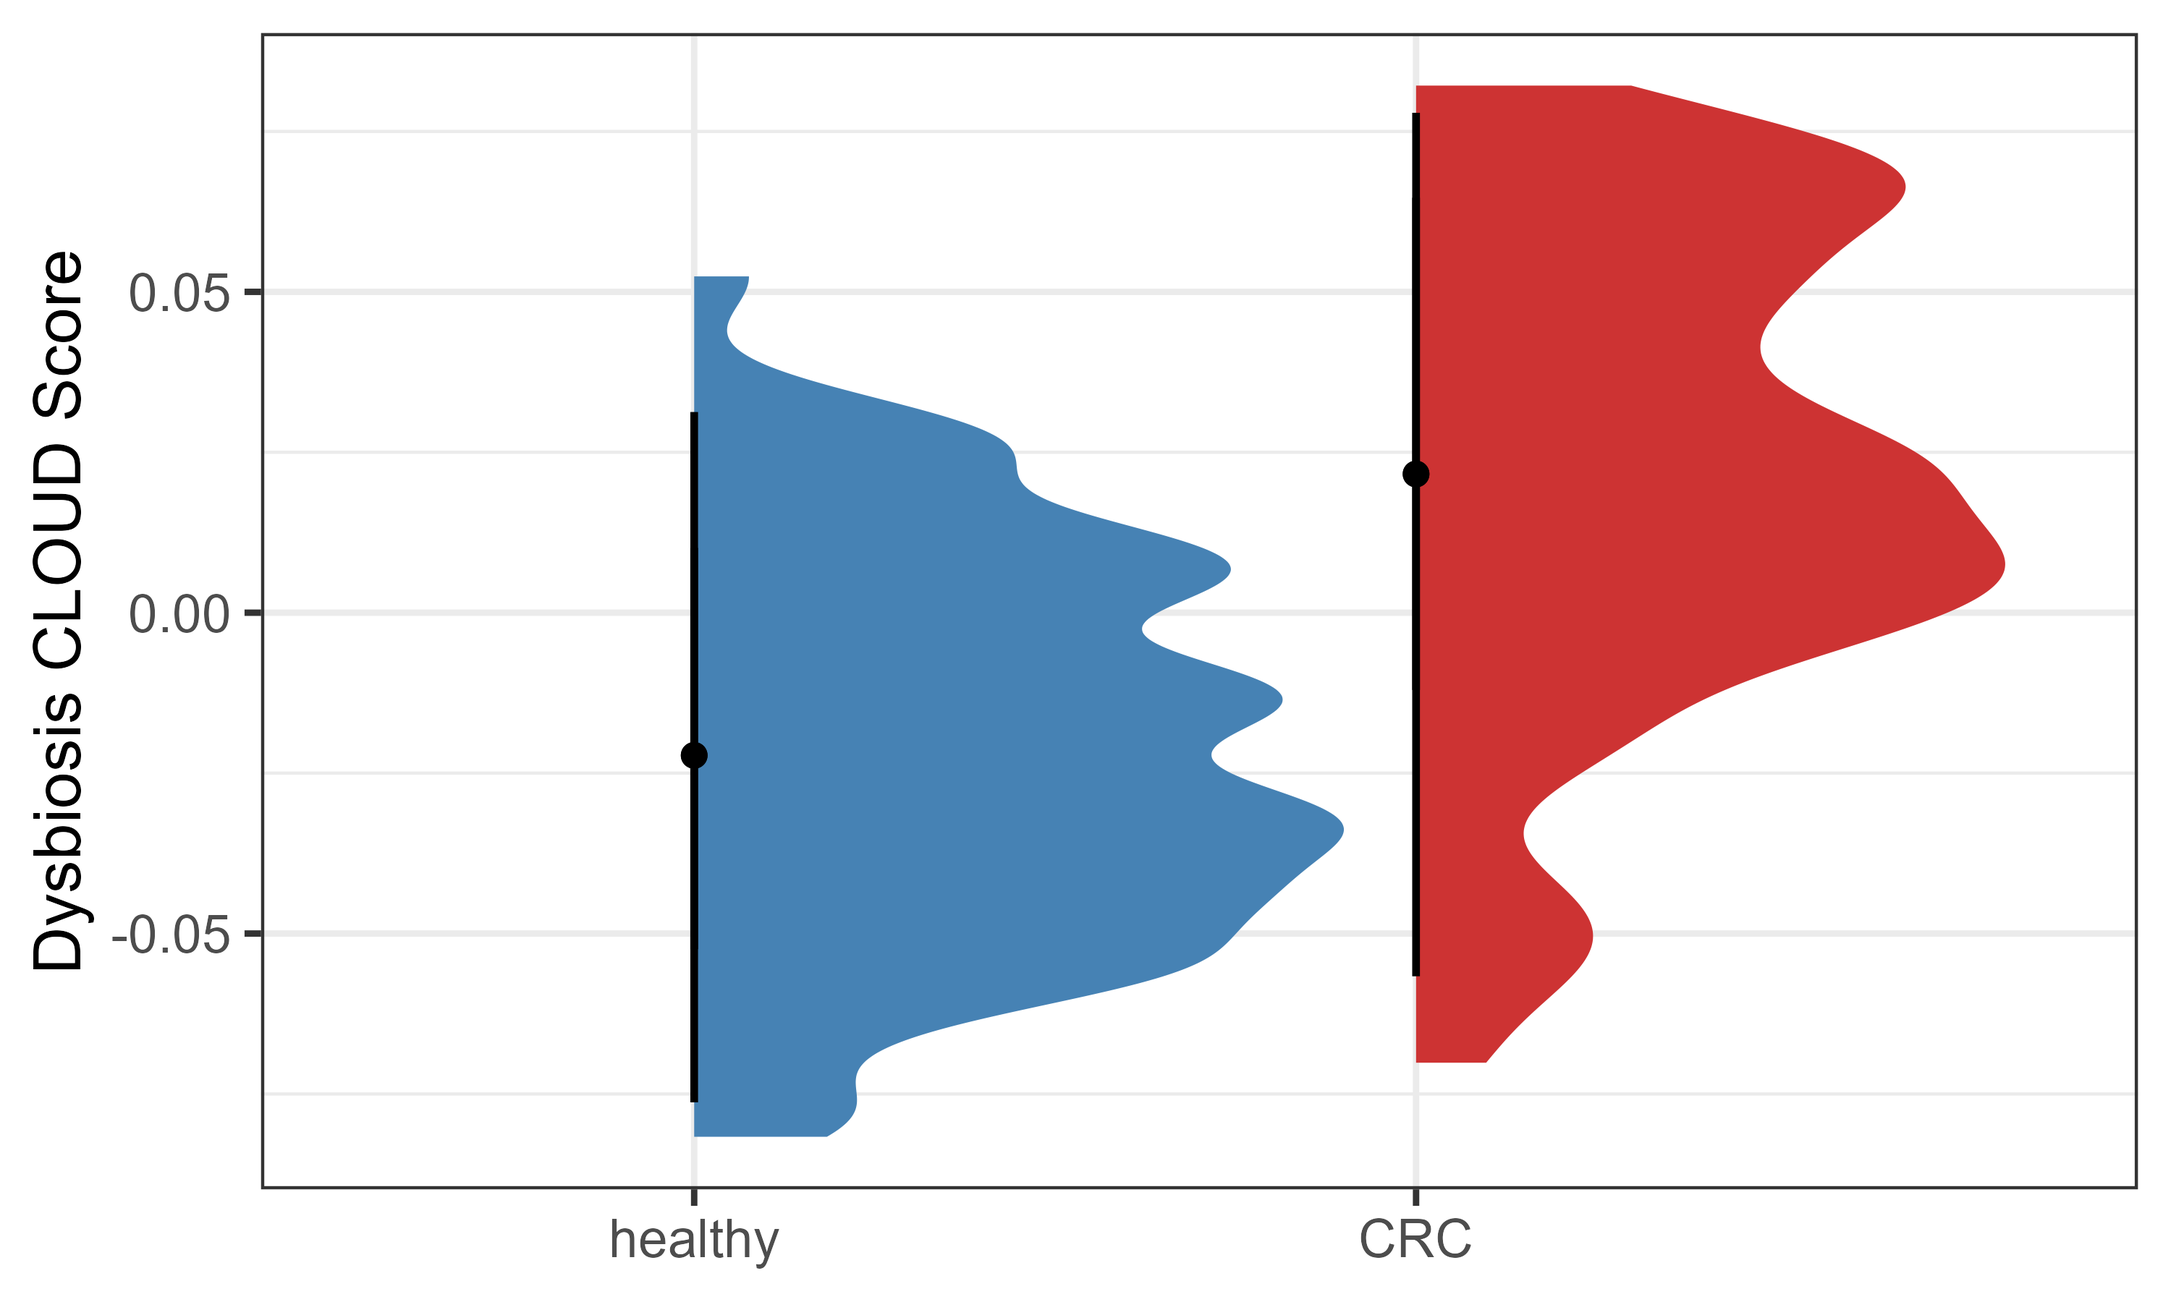
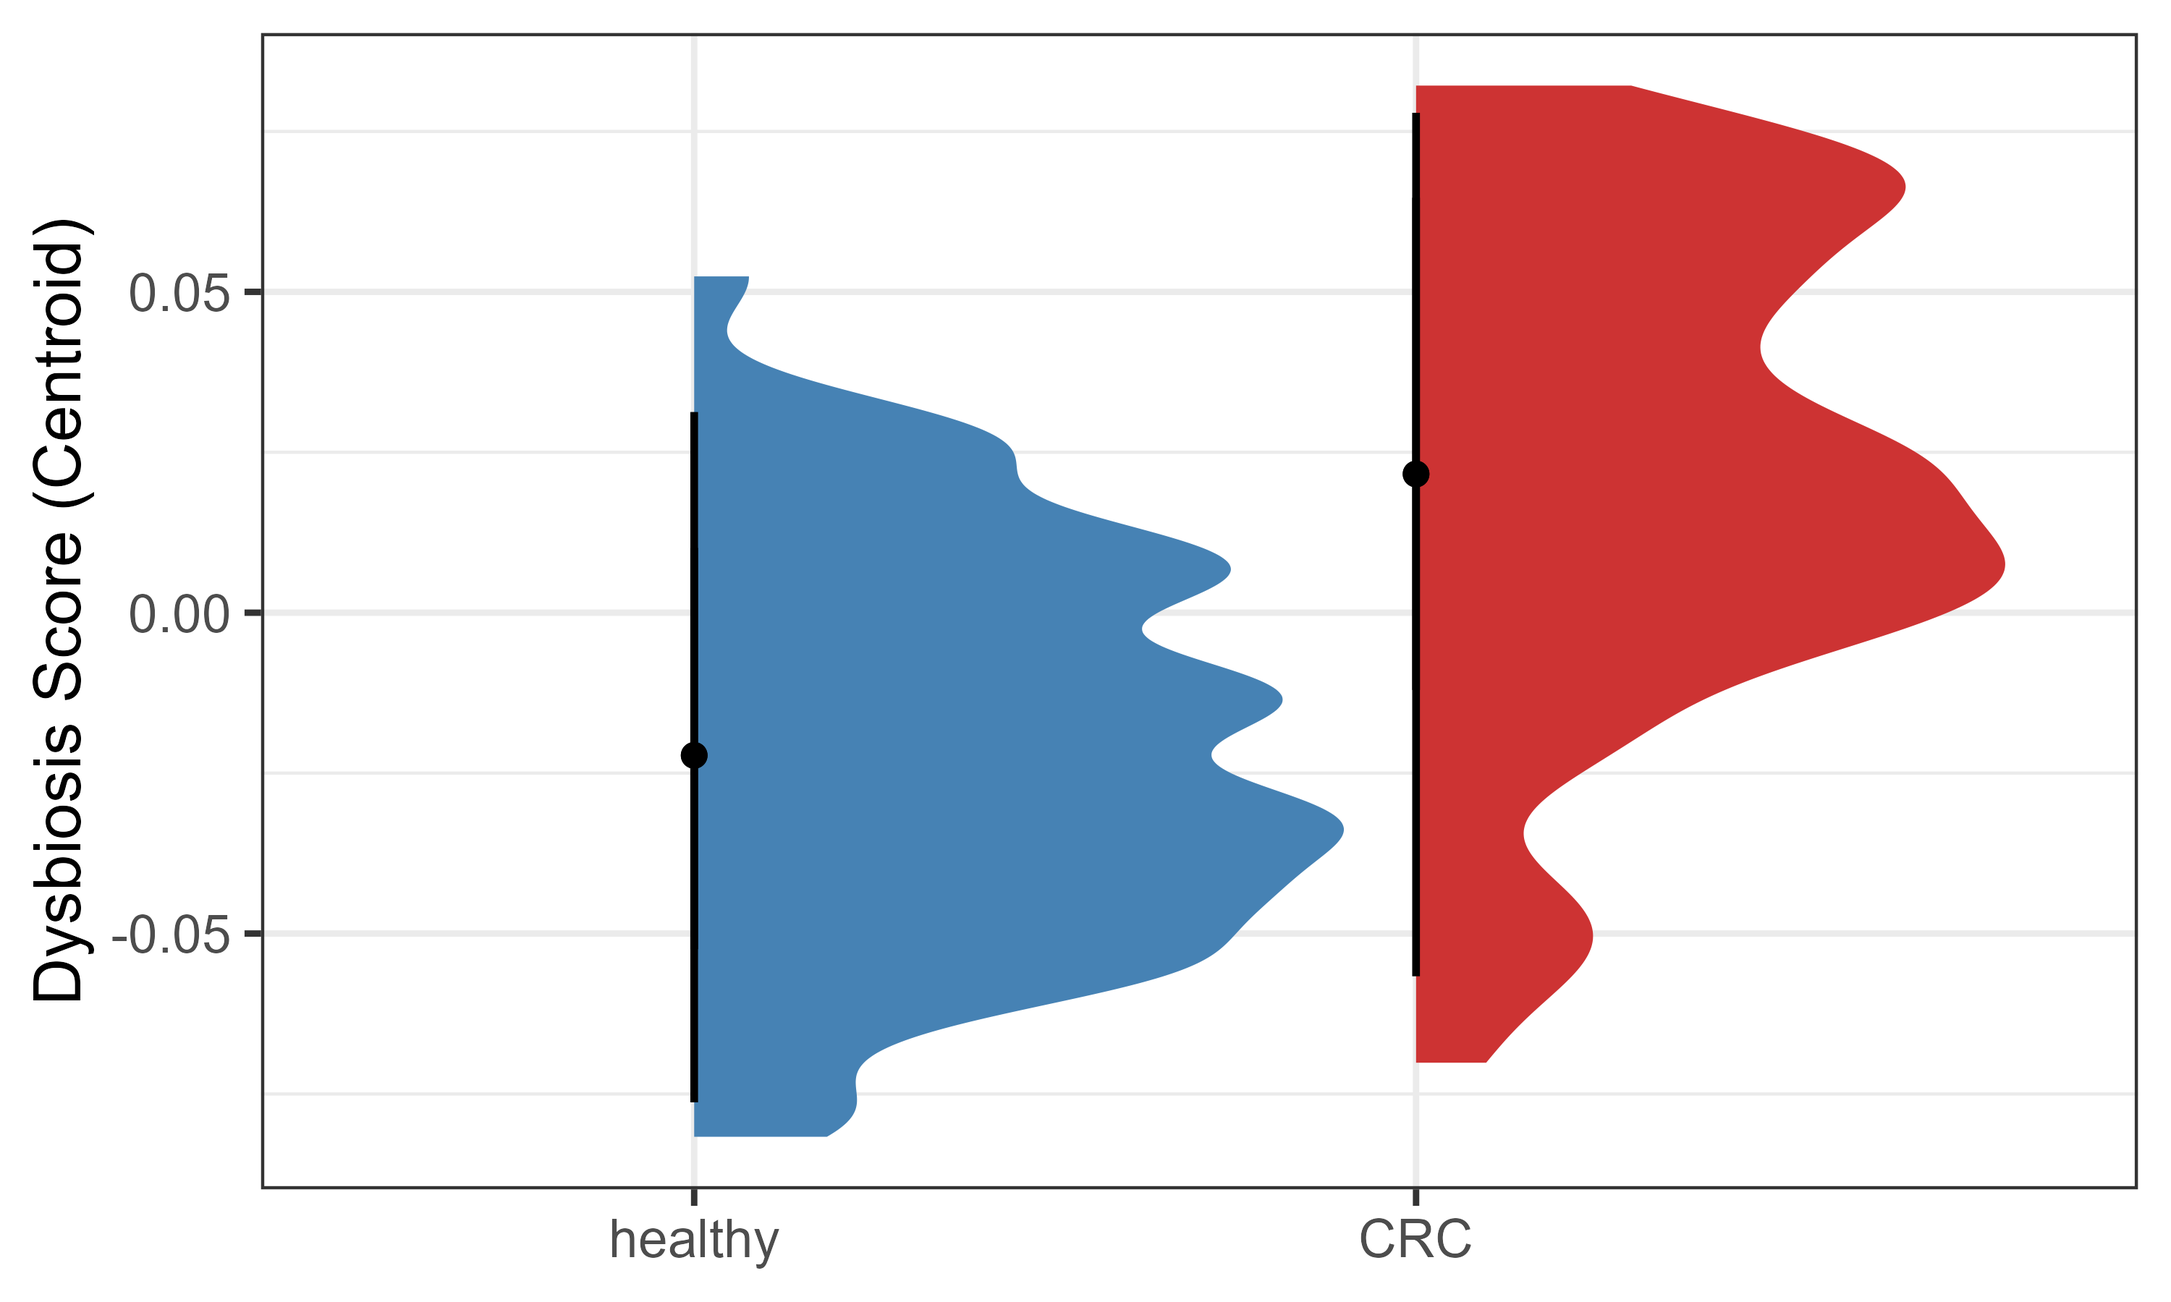
up

Changed region(s): [[0.0, 0.1867, 0.062, 0.7778]]

diff --git a/docs/articles/Introduction.html b/docs/articles/Introduction.html
@@ -243,7 +243,7 @@ score.</p>
 <div class="sourceCode" id="cb10"><pre class="downlit sourceCode r">
 <code class="sourceCode R"><span><span class="co"># order the data </span></span>
 <span><span class="va">dysbiosis_2</span><span class="op">$</span><span class="va">disease</span> <span class="op">&lt;-</span> <span class="fu"><a href="https://rdrr.io/r/base/factor.html" class="external-link">factor</a></span><span class="op">(</span><span class="va">dysbiosis_2</span><span class="op">$</span><span class="va">disease</span>, </span>
-<span>                                levels <span class="op">=</span> <span class="fu"><a href="https://rdrr.io/r/base/c.html" class="external-link">c</a></span><span class="op">(</span><span class="st">"healthy"</span>, <span class="st">"CRC"</span><span class="op">)</span><span class="op">)</span></span>
+<span>                              levels <span class="op">=</span> <span class="fu"><a href="https://rdrr.io/r/base/c.html" class="external-link">c</a></span><span class="op">(</span><span class="st">"healthy"</span>, <span class="st">"CRC"</span><span class="op">)</span><span class="op">)</span></span>
 <span></span>
 <span><span class="va">roc_2</span> <span class="op">&lt;-</span> <span class="fu">pROC</span><span class="fu">::</span><span class="fu"><a href="https://rdrr.io/pkg/pROC/man/roc.html" class="external-link">roc</a></span><span class="op">(</span><span class="fu"><a href="https://rdrr.io/r/base/factor.html" class="external-link">as.factor</a></span><span class="op">(</span><span class="va">dysbiosis_2</span><span class="op">$</span><span class="va">disease</span><span class="op">)</span>,</span>
 <span>                   <span class="va">dysbiosis_2</span><span class="op">$</span><span class="va">CentroidDist_score</span> ,</span>
@@ -262,7 +262,7 @@ score.</p>
 <span>                    yvar<span class="op">=</span><span class="st">"CentroidDist_score"</span>,</span>
 <span>                    colors<span class="op">=</span><span class="fu"><a href="https://rdrr.io/r/base/c.html" class="external-link">c</a></span><span class="op">(</span>CRC<span class="op">=</span><span class="st">"brown3"</span>, healthy<span class="op">=</span><span class="st">"steelblue"</span><span class="op">)</span>,</span>
 <span>                    show_points <span class="op">=</span> <span class="cn">FALSE</span><span class="op">)</span> <span class="op">+</span></span>
-<span>  <span class="fu"><a href="https://ggplot2.tidyverse.org/reference/labs.html" class="external-link">labs</a></span><span class="op">(</span>x<span class="op">=</span><span class="st">""</span>, y<span class="op">=</span><span class="st">"Dysbiosis CLOUD Score"</span><span class="op">)</span></span>
+<span>  <span class="fu"><a href="https://ggplot2.tidyverse.org/reference/labs.html" class="external-link">labs</a></span><span class="op">(</span>x<span class="op">=</span><span class="st">""</span>, y<span class="op">=</span><span class="st">"Dysbiosis Score (Centroid)"</span><span class="op">)</span></span>
 <span><span class="va">p3</span></span></code></pre></div>
 <p><img src="Introduction_files/figure-html/unnamed-chunk-11-1.png" width="100%" style="display: block; margin: auto;"></p>
 </div>
@@ -297,7 +297,7 @@ means for alpha and beta diversity.</p>
 <div class="sourceCode" id="cb14"><pre class="downlit sourceCode r">
 <code class="sourceCode R"><span><span class="co"># order the data </span></span>
 <span><span class="va">dysbiosis_3</span><span class="op">$</span><span class="va">disease</span> <span class="op">&lt;-</span> <span class="fu"><a href="https://rdrr.io/r/base/factor.html" class="external-link">factor</a></span><span class="op">(</span><span class="va">dysbiosis_3</span><span class="op">$</span><span class="va">disease</span>, </span>
-<span>                                levels <span class="op">=</span> <span class="fu"><a href="https://rdrr.io/r/base/c.html" class="external-link">c</a></span><span class="op">(</span><span class="st">"healthy"</span>, <span class="st">"CRC"</span><span class="op">)</span><span class="op">)</span></span>
+<span>                              levels <span class="op">=</span> <span class="fu"><a href="https://rdrr.io/r/base/c.html" class="external-link">c</a></span><span class="op">(</span><span class="st">"healthy"</span>, <span class="st">"CRC"</span><span class="op">)</span><span class="op">)</span></span>
 <span></span>
 <span><span class="va">roc_3</span> <span class="op">&lt;-</span> <span class="fu">pROC</span><span class="fu">::</span><span class="fu"><a href="https://rdrr.io/pkg/pROC/man/roc.html" class="external-link">roc</a></span><span class="op">(</span><span class="fu"><a href="https://rdrr.io/r/base/factor.html" class="external-link">as.factor</a></span><span class="op">(</span><span class="va">dysbiosis_3</span><span class="op">$</span><span class="va">disease</span><span class="op">)</span>,</span>
 <span>                   <span class="va">dysbiosis_3</span><span class="op">$</span><span class="va">ShannonJSDScore</span> ,</span>
@@ -415,6 +415,11 @@ allows for calculating this measure with some level of freedom of
 <span>  <span class="fu"><a href="https://ggplot2.tidyverse.org/reference/labs.html" class="external-link">labs</a></span><span class="op">(</span>x<span class="op">=</span><span class="st">""</span>, y<span class="op">=</span><span class="st">"OOB Dysbiosis Score"</span><span class="op">)</span></span>
 <span><span class="va">p5</span></span></code></pre></div>
 <p><img src="Introduction_files/figure-html/unnamed-chunk-19-1.png" width="100%" style="display: block; margin: auto;"></p>
+</div>
+</div>
+<div class="section level2">
+<h2 id="additional">Additional<a class="anchor" aria-label="anchor" href="#additional"></a>
+</h2>
 <p>Compare all five dysbiosis scores</p>
 <div class="sourceCode" id="cb20"><pre class="downlit sourceCode r">
 <code class="sourceCode R"><span></span>
@@ -438,7 +443,33 @@ allows for calculating this measure with some level of freedom of
 <span><span class="co">#&gt; CCMD13934959ST-21-0 -0.27130195</span></span>
 <span><span class="co">#&gt; CCMD14479708ST-21-0 -0.21081880</span></span>
 <span><span class="co">#&gt; CCMD18872694ST-21-0 -0.14659362</span></span></code></pre></div>
+<p>The different dysbiosis score can be investigated in the context of
+specific host features.</p>
 <div class="sourceCode" id="cb21"><pre class="downlit sourceCode r">
+<code class="sourceCode R"><span><span class="co"># Age</span></span>
+<span><span class="va">p1</span> <span class="op">&lt;-</span> <span class="fu"><a href="https://rdrr.io/r/base/cbind.html" class="external-link">cbind</a></span><span class="op">(</span><span class="va">all.dysbiosis</span>,</span>
+<span>      <span class="va">dysbiosis_1</span><span class="op">[</span><span class="fu"><a href="https://rdrr.io/r/base/c.html" class="external-link">c</a></span><span class="op">(</span><span class="st">"age"</span>,<span class="st">"BMI"</span>, <span class="st">"disease"</span><span class="op">)</span><span class="op">]</span><span class="op">)</span> <span class="op">|&gt;</span> </span>
+<span>  <span class="fu"><a href="https://ggplot2.tidyverse.org/reference/ggplot.html" class="external-link">ggplot</a></span><span class="op">(</span><span class="fu"><a href="https://ggplot2.tidyverse.org/reference/aes.html" class="external-link">aes</a></span><span class="op">(</span><span class="va">age</span>,<span class="va">CentroidDist_score</span>,color<span class="op">=</span><span class="va">disease</span><span class="op">)</span><span class="op">)</span> <span class="op">+</span></span>
+<span>  <span class="fu"><a href="https://ggplot2.tidyverse.org/reference/geom_point.html" class="external-link">geom_point</a></span><span class="op">(</span><span class="op">)</span> <span class="op">+</span></span>
+<span>  <span class="fu"><a href="https://ggplot2.tidyverse.org/reference/ggtheme.html" class="external-link">theme_bw</a></span><span class="op">(</span>base_size <span class="op">=</span> <span class="fl">12</span><span class="op">)</span> <span class="op">+</span></span>
+<span>  <span class="fu"><a href="https://ggplot2.tidyverse.org/reference/geom_smooth.html" class="external-link">geom_smooth</a></span><span class="op">(</span><span class="op">)</span> <span class="op">+</span></span>
+<span>  <span class="fu"><a href="https://ggplot2.tidyverse.org/reference/scale_manual.html" class="external-link">scale_color_manual</a></span><span class="op">(</span><span class="st">"Group"</span>, values <span class="op">=</span> <span class="fu"><a href="https://rdrr.io/r/base/c.html" class="external-link">c</a></span><span class="op">(</span>CRC<span class="op">=</span><span class="st">"brown3"</span>, healthy<span class="op">=</span><span class="st">"steelblue"</span><span class="op">)</span><span class="op">)</span><span class="op">+</span></span>
+<span>  <span class="fu"><a href="https://ggplot2.tidyverse.org/reference/labs.html" class="external-link">labs</a></span><span class="op">(</span>y<span class="op">=</span><span class="st">"Dysbiosis Score (Centroid)"</span><span class="op">)</span></span>
+<span><span class="va">p1</span></span></code></pre></div>
+<p><img src="Introduction_files/figure-html/unnamed-chunk-21-1.png" width="100%" style="display: block; margin: auto;"></p>
+<div class="sourceCode" id="cb22"><pre class="downlit sourceCode r">
+<code class="sourceCode R"><span><span class="co"># BMI  </span></span>
+<span><span class="va">p2</span> <span class="op">&lt;-</span> <span class="fu"><a href="https://rdrr.io/r/base/cbind.html" class="external-link">cbind</a></span><span class="op">(</span><span class="va">all.dysbiosis</span>,</span>
+<span>      <span class="va">dysbiosis_1</span><span class="op">[</span><span class="fu"><a href="https://rdrr.io/r/base/c.html" class="external-link">c</a></span><span class="op">(</span><span class="st">"age"</span>,<span class="st">"BMI"</span>, <span class="st">"disease"</span><span class="op">)</span><span class="op">]</span><span class="op">)</span> <span class="op">|&gt;</span> </span>
+<span>  <span class="fu"><a href="https://ggplot2.tidyverse.org/reference/ggplot.html" class="external-link">ggplot</a></span><span class="op">(</span><span class="fu"><a href="https://ggplot2.tidyverse.org/reference/aes.html" class="external-link">aes</a></span><span class="op">(</span><span class="va">BMI</span>,<span class="va">CentroidDist_score</span>,color<span class="op">=</span><span class="va">disease</span><span class="op">)</span><span class="op">)</span> <span class="op">+</span></span>
+<span>  <span class="fu"><a href="https://ggplot2.tidyverse.org/reference/geom_point.html" class="external-link">geom_point</a></span><span class="op">(</span><span class="op">)</span> <span class="op">+</span></span>
+<span>  <span class="fu"><a href="https://ggplot2.tidyverse.org/reference/ggtheme.html" class="external-link">theme_bw</a></span><span class="op">(</span>base_size <span class="op">=</span> <span class="fl">12</span><span class="op">)</span> <span class="op">+</span></span>
+<span>  <span class="fu"><a href="https://ggplot2.tidyverse.org/reference/geom_smooth.html" class="external-link">geom_smooth</a></span><span class="op">(</span><span class="op">)</span><span class="op">+</span></span>
+<span>  <span class="fu"><a href="https://ggplot2.tidyverse.org/reference/scale_manual.html" class="external-link">scale_color_manual</a></span><span class="op">(</span><span class="st">"Group"</span>, values <span class="op">=</span> <span class="fu"><a href="https://rdrr.io/r/base/c.html" class="external-link">c</a></span><span class="op">(</span>CRC<span class="op">=</span><span class="st">"brown3"</span>, healthy<span class="op">=</span><span class="st">"steelblue"</span><span class="op">)</span><span class="op">)</span> <span class="op">+</span></span>
+<span>  <span class="fu"><a href="https://ggplot2.tidyverse.org/reference/labs.html" class="external-link">labs</a></span><span class="op">(</span>y<span class="op">=</span><span class="st">"Dysbiosis Score (Centroid)"</span><span class="op">)</span></span>
+<span><span class="va">p2</span></span></code></pre></div>
+<p><img src="Introduction_files/figure-html/unnamed-chunk-22-1.png" width="100%" style="display: block; margin: auto;"></p>
+<div class="sourceCode" id="cb23"><pre class="downlit sourceCode r">
 <code class="sourceCode R"><span><span class="fu"><a href="https://rdrr.io/r/utils/sessionInfo.html" class="external-link">sessionInfo</a></span><span class="op">(</span><span class="op">)</span></span>
 <span><span class="co">#&gt; R version 4.2.1 (2022-06-23 ucrt)</span></span>
 <span><span class="co">#&gt; Platform: x86_64-w64-mingw32/x64 (64-bit)</span></span>
@@ -494,7 +525,6 @@ allows for calculating this measure with some level of freedom of
 <span><span class="co">#&gt; [91] xfun_0.31              ragg_1.2.2             survival_3.3-1        </span></span>
 <span><span class="co">#&gt; [94] tibble_3.1.7           iterators_1.0.14       memoise_2.0.1         </span></span>
 <span><span class="co">#&gt; [97] IRanges_2.30.0         cluster_2.1.3          ellipsis_0.3.2</span></span></code></pre></div>
-</div>
 </div>
   </main><aside class="col-md-3"><nav id="toc"><h2>On this page</h2>
     </nav></aside>

diff --git a/docs/index.html b/docs/index.html
@@ -88,7 +88,7 @@
 <div class="section level2">
 <h2 id="installation">Installation<a class="anchor" aria-label="anchor" href="#installation"></a>
 </h2>
-<p>You can install the development version of <code>dysbiosisR</code> like so:</p>
+<p>You can install the development version of <code>dysbiosisR</code> like this:</p>
 <pre><code><span><span class="fu">devtools</span><span class="fu">::</span><span class="fu"><a href="https://remotes.r-lib.org/reference/install_github.html" class="external-link">install_github</a></span><span class="op">(</span><span class="st">"microsud/dysbiosisR"</span><span class="op">)</span></span></code></pre>
 <div class="section level3">
 <h3 id="load-pkg">Load pkg<a class="anchor" aria-label="anchor" href="#load-pkg"></a>
@@ -119,6 +119,7 @@
 <li><p>AlShawaqfeh MK, et al., 2017. A dysbiosis index to assess microbial changes in fecal samples of dogs with chronic inflammatory enteropathy. FEMS Microbiol Ecol 93:1–8. 10.1093/femsec/fix136.</p></li>
 <li><p>Montassier E, Al-Ghalith GA, Hillmann B, Viskocil K, Kabage AJ, McKinlay CE, Sadowsky MJ, Khoruts A, Knights D. 2018. CLOUD: a non-parametric detection test for microbiome outliers. Microbiome 6:137. 10.1186/s40168-018-0514-4.</p></li>
 <li><p>Saffouri GB, Shields-Cutler RR, Chen J, Yang Y, Lekatz HR, Hale VL, Cho JM, Battaglioli EJ, Bhattarai Y, Thompson KJ, Kalari KK, Behera G, Berry JC, Peters SA, Patel R, Schuetz AN, Faith JJ, Camilleri M, Sonnenburg JL, Farrugia G, Swann JR, Grover M, Knights D, Kashyap PC. 2019. Small intestinal microbial dysbiosis underlies symptoms associated with functional gastrointestinal disorders. Nat Commun 10:2012. 10.1038/s41467-019-09964-7.</p></li>
+<li><p>Wei, S., Bahl, M.I., Baunwall, S.M.D., Hvas, C.L. and Licht, T.R., 2021. Determining gut microbial dysbiosis: a review of applied indexes for assessment of intestinal microbiota imbalances. Applied and Environmental Microbiology, 87(11), pp.e00395-21.</p></li>
 </ol>
 </div>
 <div class="section level3">

diff --git a/README.md b/README.md
@@ -9,7 +9,7 @@ measures from microbiota profiling data.
 
 ## Installation
 
-You can install the development version of `dysbiosisR` like so:
+You can install the development version of `dysbiosisR` like this:
 
 ``` 
 devtools::install_github("microsud/dysbiosisR")
@@ -41,7 +41,9 @@ Shetty SA, et al., 2022. _dysbiosisR_: An R package to calculate common dysbiosi
 
 4. Montassier E, Al-Ghalith GA, Hillmann B, Viskocil K, Kabage AJ, McKinlay CE, Sadowsky MJ, Khoruts A, Knights D. 2018. CLOUD: a non-parametric detection test for microbiome outliers. Microbiome 6:137. 10.1186/s40168-018-0514-4.   
 
-5. Saffouri GB, Shields-Cutler RR, Chen J, Yang Y, Lekatz HR, Hale VL, Cho JM, Battaglioli EJ, Bhattarai Y, Thompson KJ, Kalari KK, Behera G, Berry JC, Peters SA, Patel R, Schuetz AN, Faith JJ, Camilleri M, Sonnenburg JL, Farrugia G, Swann JR, Grover M, Knights D, Kashyap PC. 2019. Small intestinal microbial dysbiosis underlies symptoms associated with functional gastrointestinal disorders. Nat Commun 10:2012. 10.1038/s41467-019-09964-7.  
+5. Saffouri GB, Shields-Cutler RR, Chen J, Yang Y, Lekatz HR, Hale VL, Cho JM, Battaglioli EJ, Bhattarai Y, Thompson KJ, Kalari KK, Behera G, Berry JC, Peters SA, Patel R, Schuetz AN, Faith JJ, Camilleri M, Sonnenburg JL, Farrugia G, Swann JR, Grover M, Knights D, Kashyap PC. 2019. Small intestinal microbial dysbiosis underlies symptoms associated with functional gastrointestinal disorders. Nat Commun 10:2012. 10.1038/s41467-019-09964-7.   
+
+6. Wei, S., Bahl, M.I., Baunwall, S.M.D., Hvas, C.L. and Licht, T.R., 2021. Determining gut microbial dysbiosis: a review of applied indexes for assessment of intestinal microbiota imbalances. Applied and Environmental Microbiology, 87(11), pp.e00395-21.   
 
 ### Acknowledgement    
 This work was done within the Microbiome Group at the RIVM and Medical Microbiology and Infection Prevention at UMC Groningen.  
